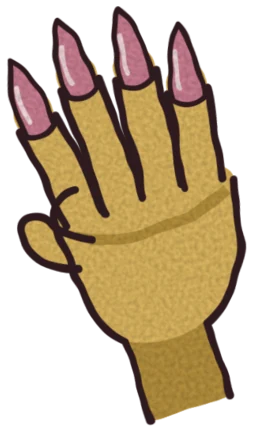
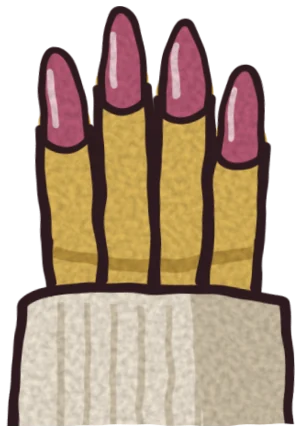
Yassify's hand is drawn as the yassified emoji's: fingers close together and straight up, long rounded almond nails and a cream knit cuff, raised upright from the token's bottom left

diff --git a/src/app/pixi/token-renderer/TokenYassify.ts b/src/app/pixi/token-renderer/TokenYassify.ts
@@ -20,10 +20,13 @@ interface Prop {
   tilt: number;
 }
 
-/** The bow pinned on top right, the manicured hand raised bottom left, the tumbler held bottom right. */
+/**
+ * The bow pinned on top right, a manicured hand raised straight up from the bottom left as the yassified emoji holds
+ * it, and the tumbler held on the bottom right.
+ */
 const PROPS: readonly Prop[] = [
   { label: 'tokenBow', url: bowImageUrl, angle: -45, reach: 0.86, width: 0.55, tilt: 0.3 },
-  { label: 'tokenNails', url: nailsImageUrl, angle: 140, reach: 0.9, width: 0.3, tilt: -0.35 },
+  { label: 'tokenNails', url: nailsImageUrl, angle: 122, reach: 0.84, width: 0.32, tilt: -0.08 },
   { label: 'tokenCup', url: cupImageUrl, angle: 40, reach: 0.9, width: 0.36, tilt: 0.12 },
 ];
 /** Above the art, ring and glass, below the downed skull and the hidden-token marker. */
@@ -50,9 +53,9 @@ function loadPropTextures(): Promise<boolean> {
 }
 
 /**
- * Yassify (Appearance settings): every token wears a bow, shows off its nails and holds a tumbler, upright whichever
- * way the token turns and sized by its ring. The props are children of the token's group, so they move, hide and go
- * with their token, in the player window too. Every token shares the three textures.
+ * Yassify (Appearance settings): every token wears a bow, raises a hand to show off its nails and holds a tumbler,
+ * upright whichever way the token turns and sized by its ring. The props are children of the token's group, so they
+ * move, hide and go with their token, in the player window too. Every token shares the three textures.
  */
 export class TokenYassify {
   private readonly waiting = new Set<TokenGroupContainer>();
